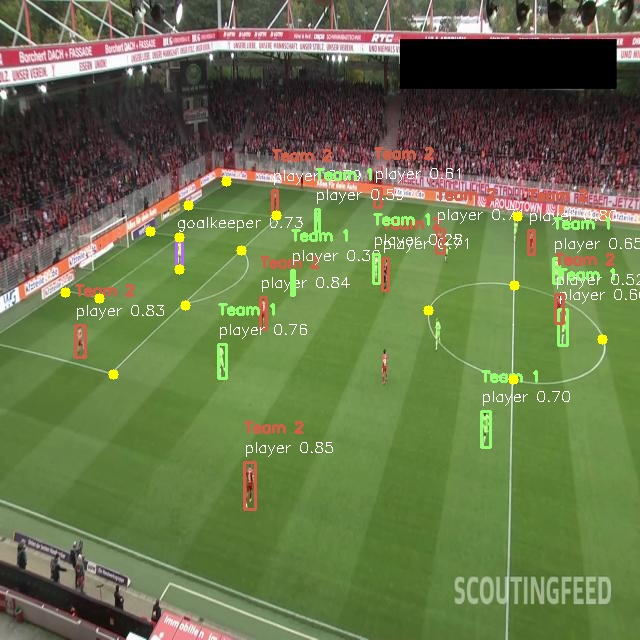
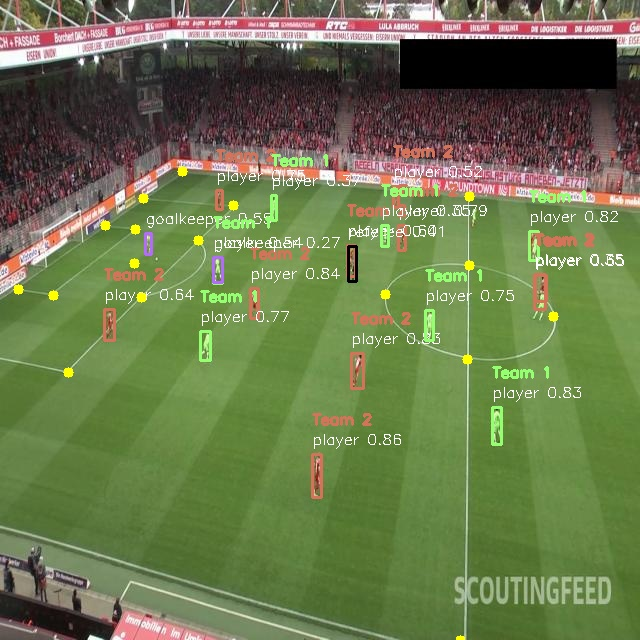
fixed team colour bug

diff --git a/pitch_visualiser.py b/pitch_visualiser.py
@@ -2,7 +2,7 @@ from mplsoccer import Pitch
 import matplotlib.pyplot as plt
 import numpy as np
 import cv2
-from utils.utils import CONFIG_VERTICES, PITCH_WIDTH, PITCH_LENGTH
+from utils.utils import CONFIG_VERTICES, PITCH_WIDTH, PITCH_LENGTH, COLOUR_MAP
 
 def display_player_data(processed_players, team1_role, team2_role):
     for player in processed_players:
@@ -35,6 +35,10 @@ def pitch_display(players=None, referees=None, goalkeepers=None, footballs=None,
     # Create figure
     _, ax = pitch.draw(figsize=(10, 6))
 
+
+    print(COLOUR_MAP["referee"])
+    print(COLOUR_MAP["football"])
+    print(COLOUR_MAP["goalkeeper"])
     # Reverse the y-axis so that (0,0) is at the top-left
     ax.invert_yaxis()
     
@@ -50,18 +54,17 @@ def pitch_display(players=None, referees=None, goalkeepers=None, footballs=None,
     if players is not None:
         player_positions = players[:, :2]  # Extract x and y positions
         player_colours = players[:, 2:5] / 255
-        player_colours = np.flip(player_colours)
         
         # Scatter plot with dynamic colors
-        ax.scatter(player_positions[:, 0], player_positions[:, 1], color=player_colours, s=100, edgecolors='black', label='Players')
-    
+       # ax.scatter(player_positions[:, 0], player_positions[:, 1], color=player_colours, s=100, edgecolors='black', label='Players')
+        ax.scatter(player_positions[:, 0], player_positions[:, 1], color=player_colours, s=100, edgecolors='black', label='Players') 
     # Plot transformed referees if available
     if referees is not None:
-        ax.scatter(referees[:, 0], referees[:, 1], color='red', s=100, edgecolors='black', label='Referees')
+        ax.scatter(referees[:, 0], referees[:, 1], color='black', s=100, edgecolors='black', label='Referees')
 
     # Plot transformed goalkeepers if available
     if goalkeepers is not None:
-        ax.scatter(goalkeepers[:, 0], goalkeepers[:, 1], color='green', s=100, edgecolors='black', label='Goalkeepers')
+        ax.scatter(goalkeepers[:, 0], goalkeepers[:, 1], color='yellow', s=100, edgecolors='black', label='Goalkeepers')
 
     # Plot transformed footballs if available
     if footballs is not None:

diff --git a/coordinate_transformer.py b/coordinate_transformer.py
@@ -14,7 +14,28 @@ class CoordinateTransformer:
         x_normalised = x_center * (PITCH_LENGTH / self.image_size)  
         y_normalised = y_center * (PITCH_WIDTH / self.image_size)  
         return np.array([x_normalised, y_normalised])  # Ensure a NumPy array output
+    
 
+    def append_team_colour_to_coordinates(self, new_player_coordinates, processed_players):
+        """
+        Appends the flipped team color to each player's new coordinates and returns as a NumPy array.
+
+        Parameters:
+        new_player_coordinates (array-like): A list or array of new player coordinates.
+        processed_players (list of dicts): A list of players, where each player is a dictionary
+                                        containing their 'team_colour'.
+
+        Returns:
+        numpy.ndarray: A NumPy array of coordinates with the flipped team color appended.
+        """
+        new_player_coordinates_with_colour = [
+            np.append(new_coordinates, np.flip(player['team_colour']))
+            for new_coordinates, player in zip(new_player_coordinates, processed_players)
+        ]
+    
+        # Convert the list to a NumPy array and return it
+        return np.array(new_player_coordinates_with_colour)
+        
     def transform_player(self, players):
         transformed_players = [self.transform_coordinates(*player['coords']) for player in players]
         return np.array(transformed_players)  # Convert list of arrays to NumPy array (N, 2)

diff --git a/main.py b/main.py
@@ -6,7 +6,6 @@ import os
 import cv2
 from pitch_visualiser import pitch_display, display_keypoint_data, display_player_data, display_referee_data
 from position_transformer import PositionTransformer
-import numpy as np
 from coordinate_transformer import CoordinateTransformer
 # import utilities and other functions
 from image_processing.image_processor import ImageProcessor
@@ -317,13 +316,7 @@ class ImageApp:
             new_player_coordinates = position_transformer.transform_positions(H, transformed_players)
             
             # Append team_colour to each player's transformed coordinates
-            new_player_coordinates_with_colour = [
-                np.append(new_coordinates, player['team_colour'])
-                for new_coordinates, player in zip(new_player_coordinates, self.processed_players)
-            ]
-            
-            # Convert the list to a NumPy array
-            new_player_coordinates_with_colour = np.array(new_player_coordinates_with_colour)
+            new_player_coordinates_with_colour = coordinate_transformer.append_team_colour_to_coordinates(new_player_coordinates, self.processed_players) 
             
             print(f"NEW PLAYER COORDINATES WITH COLOUR: {new_player_coordinates_with_colour}")
 
